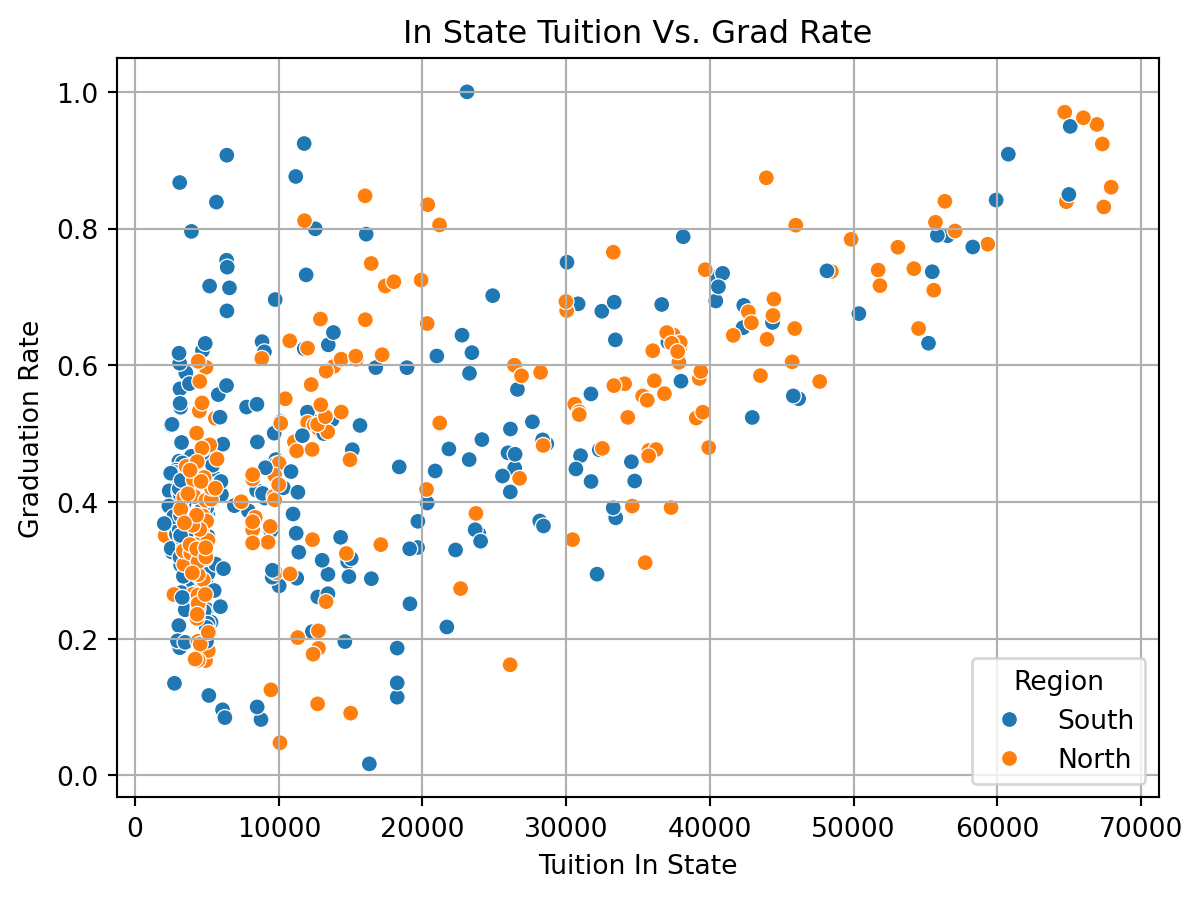
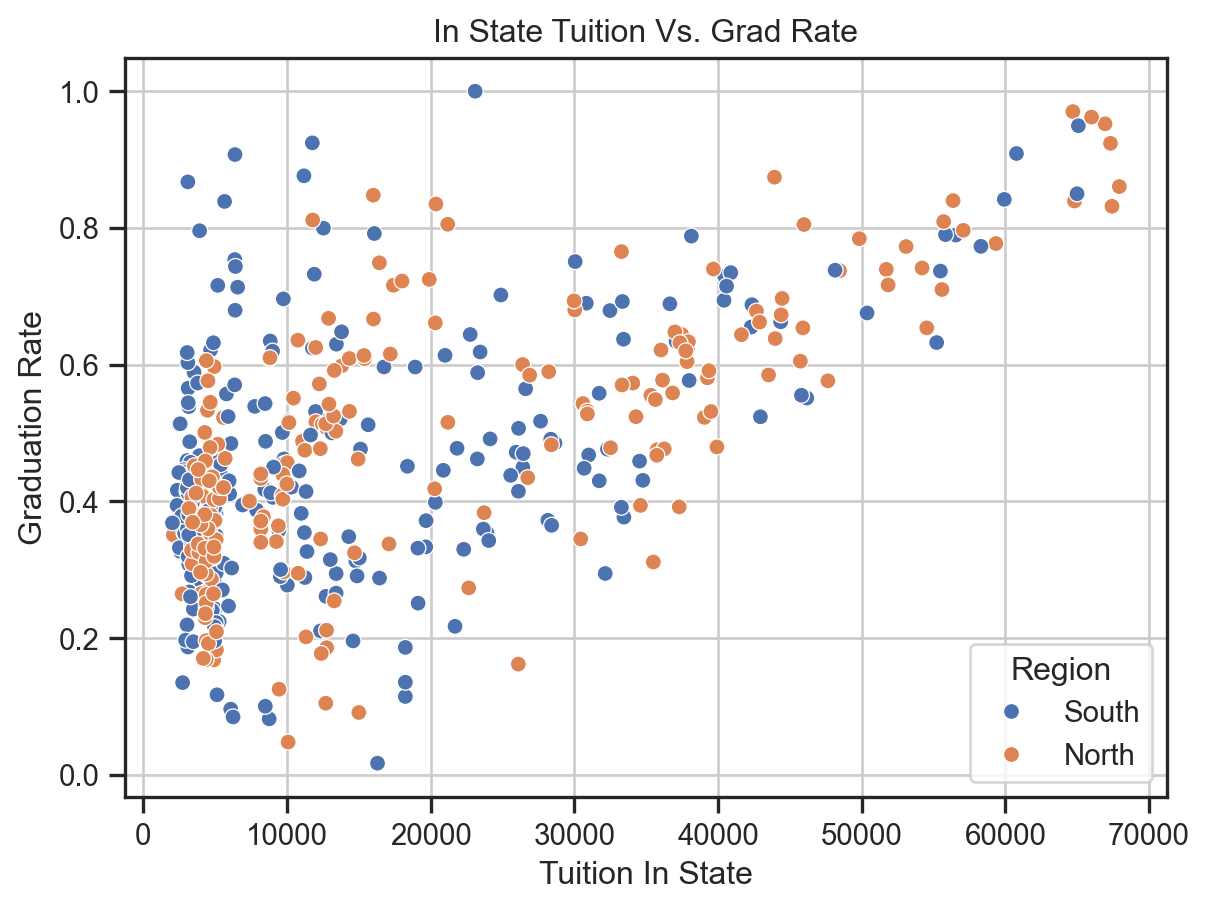
final

Changed region(s): [[0.0, 0.0, 0.985, 0.9978], [0.8311, 0.1559, 0.8619, 0.1871], [0.4002, 0.3118, 0.4309, 0.343]]

diff --git a/blog.html b/blog.html
@@ -43,10 +43,28 @@ ul.task-list li input[type="checkbox"] {
 
 </head>
 
-<body class="fullcontent quarto-light">
+<body class="quarto-light">
 
 <div id="quarto-content" class="page-columns page-rows-contents page-layout-article">
-
+<div id="quarto-margin-sidebar" class="sidebar margin-sidebar">
+  <nav id="TOC" role="doc-toc" class="toc-active">
+    <h2 id="toc-title">Table of contents</h2>
+   
+  <ul class="collapse">
+  <li><a href="#u.s.-colleges-and-graduation-rates" id="toc-u.s.-colleges-and-graduation-rates" class="nav-link active" data-scroll-target="#u.s.-colleges-and-graduation-rates">U.S. Colleges and Graduation Rates</a>
+  <ul class="collapse">
+  <li><a href="#introduction" id="toc-introduction" class="nav-link" data-scroll-target="#introduction">Introduction</a></li>
+  <li><a href="#motivation" id="toc-motivation" class="nav-link" data-scroll-target="#motivation">Motivation</a></li>
+  <li><a href="#ethical-data-practices" id="toc-ethical-data-practices" class="nav-link" data-scroll-target="#ethical-data-practices">Ethical Data Practices</a></li>
+  <li><a href="#a-short-note-on-acquiring-the-data" id="toc-a-short-note-on-acquiring-the-data" class="nav-link" data-scroll-target="#a-short-note-on-acquiring-the-data">A Short Note on Acquiring the Data</a></li>
+  <li><a href="#eda-highlights" id="toc-eda-highlights" class="nav-link" data-scroll-target="#eda-highlights">EDA Highlights</a></li>
+  <li><a href="#resources" id="toc-resources" class="nav-link" data-scroll-target="#resources">Resources</a></li>
+  <li><a href="#code-links" id="toc-code-links" class="nav-link" data-scroll-target="#code-links">Code Links</a></li>
+  <li><a href="#disclaimers" id="toc-disclaimers" class="nav-link" data-scroll-target="#disclaimers">Disclaimers</a></li>
+  </ul></li>
+  </ul>
+</nav>
+</div>
 <main class="content" id="quarto-document-content">
 
 <header id="title-block-header" class="quarto-title-block default">
@@ -81,22 +99,24 @@ ul.task-list li input[type="checkbox"] {
 </section>
 <section id="introduction" class="level2">
 <h2 class="anchored" data-anchor-id="introduction">Introduction</h2>
-<p>The purpose of this blog is to show an in depth analysis of the affects on graduations rates in U.S. colleges. The analysis studies 1,000 colleges with information on student size, tuition prices, diversity, region, and graduation rates. Studying this information could be useful in determining what factors help students graduate. Those inquiring about a future college career could use the information in deciding where to attend school.</p>
-<p>Education is crucial for societal purposes. Education allows people to become evolved thinkers and be active participants in society, and the economy. Learning what factors help students graduate could help increase overall graduation rates. While this analysis does give some insight on what influences graduation rates, this information should not be used and cited as this is not an offical analysis.</p>
+<p>The purpose of this blog is to show an in depth analysis of the affects on graduations rates of U.S. colleges. The analysis studies 1,000 colleges with information on student size, tuition prices, diversity, region, and graduation rates. Studying this information could be useful in determining what factors help students graduate. Those inquiring about a future college career could use the information when deciding where to attend school.</p>
+<p>Education is crucial for societal purposes. Education allows people to become evolved thinkers, be active participants in society, and the economy. Learning what factors help students graduate could help increase overall graduation rates. While this analysis does give some insight on what influences graduation rates, this information should not be used and cited as this is not an official analysis.</p>
 </section>
 <section id="motivation" class="level2">
 <h2 class="anchored" data-anchor-id="motivation">Motivation</h2>
 <p>From this analysis it is my hope that I learn more about the data cleaning process and analysis. I am hoping to gain a better understanding of demographics from different colleges across the nation.</p>
+<p>With these goals I also hope to provide insight on the dataset created.</p>
 </section>
 <section id="ethical-data-practices" class="level2">
 <h2 class="anchored" data-anchor-id="ethical-data-practices">Ethical Data Practices</h2>
-<p>Data gathered from the U.S. Census Bureau and College Scorecard is allowed because it is public data. Anyone can acess the data as long as they are not used to identify any individual person, household, business or other entity. The Bureau also requests that the following disclaimer be made: “This product uses the Census Bureau Data API but is not endorsed or certified by the Census Bureau.”</p>
-<p>Using these guidelines I wwas able to determine that use of this data for the purpose of my research question was ethical. I aquired API keys specifically assigned to myself and these keys were not published and cannot be accessed via the cleaning process and exploratory data analysis.</p>
+<p>The data is acquired from the U.S. Census Bureau and the College Scorecard by the U.S. Department of Education.</p>
+<p>Data gathered from the U.S. Census Bureau and College Scorecard is allowed because it is public data. Anyone can access the data as long as it is not used to identify any individual person, household, business or other entity. The Bureau also requests that the following disclaimer be made: “This product uses the Census Bureau Data API but is not endorsed or certified by the Census Bureau.”</p>
+<p>Using these guidelines I was able to determine that use of this data for the purpose of my research question was ethical. I acquired API keys specifically assigned to myself and these keys were not published and cannot be accessed via the cleaning process and exploratory data analysis.</p>
 </section>
 <section id="a-short-note-on-acquiring-the-data" class="level2">
 <h2 class="anchored" data-anchor-id="a-short-note-on-acquiring-the-data">A Short Note on Acquiring the Data</h2>
-<p>This analysis uses one datasets that has been cleaned and merged from two datasets, one with information about colleges, the other about state population.</p>
-<p>The <a href="https://www.census.gov/data/developers/data-sets.html">U.S. Census Bureau</a> and <a href="https://collegescorecard.ed.gov/data/api-documentation">College Scorecard</a> have in depth information about downloading data, acquiring and use of APIs and keys. To get started follow the instructions on those sites. Once you have the two different datasets, clean them and merge to get one dataframe that includes the following columns:</p>
+<p>This analysis uses one datasets that has been cleaned and merged from two datasets, one with information about colleges, the other about state populations.</p>
+<p>The <a href="https://www.census.gov/data/developers/data-sets.html">U.S. Census Bureau</a> and <a href="https://collegescorecard.ed.gov/data/api-documentation">College Scorecard</a> have in depth information about downloading data, acquiring, and use of APIs and keys. To get started follow the instructions on those sites. Once you have the two different datasets, clean them and merge to get one dataframe that includes the following columns:</p>
 <ul>
 <li>Student_Size</li>
 <li>Tuition_In_State</li>
@@ -119,10 +139,10 @@ ul.task-list li input[type="checkbox"] {
 </section>
 <section id="eda-highlights" class="level2">
 <h2 class="anchored" data-anchor-id="eda-highlights">EDA Highlights</h2>
-<section id="summary-statisitcs" class="level3">
-<h3 class="anchored" data-anchor-id="summary-statisitcs">Summary Statisitcs</h3>
-<div id="bac6873a" class="cell" data-execution_count="2">
-<div class="cell-output cell-output-display" data-execution_count="2">
+<section id="summary-statistics" class="level3">
+<h3 class="anchored" data-anchor-id="summary-statistics">Summary Statistics</h3>
+<div id="c3b1b32e" class="cell" data-execution_count="2">
+<div class="cell-output cell-output-display" data-execution_count="30">
 <div>
 
 
@@ -262,9 +282,9 @@ ul.task-list li input[type="checkbox"] {
 </div>
 </div>
 </div>
-<p>The table above shows the first few row of the data, this gives us an idea of what variable we are woking with. For the purpose of this analysis we will be looking at what variables affect graduation rates.</p>
-<div id="1dd87de0" class="cell" data-execution_count="3">
-<div class="cell-output cell-output-display" data-execution_count="3">
+<p>The table above shows the first few row of the data, this gives us an idea of what variable we are working with. For the purpose of this analysis we will be looking at what variables affect graduation rates.</p>
+<div id="ff92776f" class="cell" data-execution_count="3">
+<div class="cell-output cell-output-display" data-execution_count="31">
 <div>
 
 
@@ -432,7 +452,7 @@ ul.task-list li input[type="checkbox"] {
 </div>
 </div>
 <p>The table above shows summary statistics for each variable in the dataframe.</p>
-<p>The following table is the count of N/A values after taking the average graduation rate, in state tuition, and out of stat tuition for each state and filling the na values with those mean values. Note there are still some unknown values for the categorical values.</p>
+<p>The following table is the count of N/A values after taking the averages of graduation rate, in state tuition, and out of stat tuition for each state and filling the na values with those mean values. Note there are still some unknown values for the categorical values.</p>
 <table class="caption-top table">
 <thead>
 <tr class="header">
@@ -515,7 +535,7 @@ ul.task-list li input[type="checkbox"] {
 </tr>
 </tbody>
 </table>
-<p>The following table is the count of occurances for each state. Note that there is not data on all of the states in the U.S. this is due to the amount of data pulled from the API, only 1,000 schools were accounted for in the data, therefore the data will be skewed.</p>
+<p>The following table is the count of occurrences for each state. Note that there is not data on all of the states in the U.S. this is due to the amount of data pulled from the API, only 1,000 schools were accounted for in the data, therefore the data will be skewed.</p>
 <table class="caption-top table">
 <thead>
 <tr class="header">
@@ -701,7 +721,7 @@ ul.task-list li input[type="checkbox"] {
 </tr>
 </tbody>
 </table>
-<p>It is interesting to note that the District of Columbia, which is a territory has the highest graduation rate, which Connecticut following as a close second. Again we really can’t pull reliable inferences from this since the sample sizes are skewed, especially since New York, which has some of the most prestegious universities in the country, has the lowest graduation rate and only one singular occurrance in the dataset.</p>
+<p>It is interesting to note that the District of Columbia, which is a territory has the highest graduation rate, with Connecticut following as a close second. Again we really can’t pull reliable inferences from this since the sample sizes are skewed, especially since New York, which has some of the most prestigious universities in the country, has the lowest graduation rate and only one singular occurrence in the dataset.</p>
 <p>We can run a regression model on the following variables and see if any are statistically significant.</p>
 <table class="caption-top table">
 <thead>
@@ -752,28 +772,31 @@ ul.task-list li input[type="checkbox"] {
 </tbody>
 </table>
 <p>We cannot pull inference from this model, however it is interesting to see if there is an interaction between certain variables.</p>
-<div id="e9f3029d" class="cell" data-execution_count="4">
+</section>
+<section id="plots" class="level3">
+<h3 class="anchored" data-anchor-id="plots">Plots</h3>
+<div id="b854c2de" class="cell" data-execution_count="4">
 <div class="cell-output cell-output-display">
 <div>
 <figure class="figure">
-<p><img src="blog_files/figure-html/cell-5-output-1.png" width="601" height="449" class="figure-img"></p>
+<p><img src="blog_files/figure-html/cell-5-output-1.png" width="605" height="455" class="figure-img"></p>
 </figure>
 </div>
 </div>
 </div>
-<p>The plot above shows in state tuition prices plotted against graduation rates, with the colors coressponding to north and south regions of the U.S. It is interesting to note that there appears to be a linear relationship between higher tuition prices and graduation rate.</p>
-<div id="af5b0106" class="cell" data-execution_count="5">
+<p>The plot above shows in state tuition prices plotted against graduation rates, with the colors corresponding to north and south regions of the U.S. It is interesting to note that there appears to be a linear relationship between higher tuition prices and graduation rate.</p>
+<div id="34824e8d" class="cell" data-execution_count="5">
 <div class="cell-output cell-output-display">
 <div>
 <figure class="figure">
-<p><img src="blog_files/figure-html/cell-6-output-1.png" width="602" height="449" class="figure-img"></p>
+<p><img src="blog_files/figure-html/cell-6-output-1.png" width="605" height="455" class="figure-img"></p>
 </figure>
 </div>
 </div>
 </div>
 <p>We can plot the the relationship between out of state tuition and graduation rates as well. From the plot we again see that there appears to be a linear relationship between the variables.</p>
 <p>The following boxplots can help gather more inference on graduation rates for the different states.</p>
-<div id="d523ff34" class="cell" data-execution_count="6">
+<div id="dd5b17b3" class="cell" data-execution_count="6">
 <div class="cell-output cell-output-display">
 <div>
 <figure class="figure">
@@ -783,7 +806,7 @@ ul.task-list li input[type="checkbox"] {
 </div>
 </div>
 <p>We can do the same for tuition prices, this plot uses out of state tuition data.</p>
-<div id="331b29fa" class="cell" data-execution_count="7">
+<div id="1e55f81d" class="cell" data-execution_count="7">
 <div class="cell-output cell-output-display">
 <div>
 <figure class="figure">
@@ -792,16 +815,27 @@ ul.task-list li input[type="checkbox"] {
 </div>
 </div>
 </div>
+<p>These highlights of the data help us understand that while more information and data is needed to pull reliable inferences, we can see that higher tuition prices could result in higher graduation rate in U.S. colleges.</p>
 </section>
 </section>
 <section id="resources" class="level2">
 <h2 class="anchored" data-anchor-id="resources">Resources</h2>
+<ul>
+<li><p><a href="https://www.census.gov/data/developers/data-sets.html">U.S. Census Bureau</a></p></li>
+<li><p><a href="https://collegescorecard.ed.gov/data/api-documentation">College Scorecard</a></p></li>
+<li><p><a href="https://www.bestcolleges.com/research/college-graduation-rates/">More information about graduation rates.</a></p></li>
+</ul>
 </section>
 <section id="code-links" class="level2">
 <h2 class="anchored" data-anchor-id="code-links">Code Links</h2>
+<p>Fork the repository below to view the code used to create and merge the datasets, as well as the EDA process.</p>
+<ul>
+<li><a href="https://github.com/JNSREB2023/Data_Blog">Code for data analysis</a></li>
+</ul>
 </section>
 <section id="disclaimers" class="level2">
 <h2 class="anchored" data-anchor-id="disclaimers">Disclaimers</h2>
+<p>This product uses the Census Bureau Data API but is not endorsed or certified by the Census Bureau.</p>
 </section>
 </section>
 
